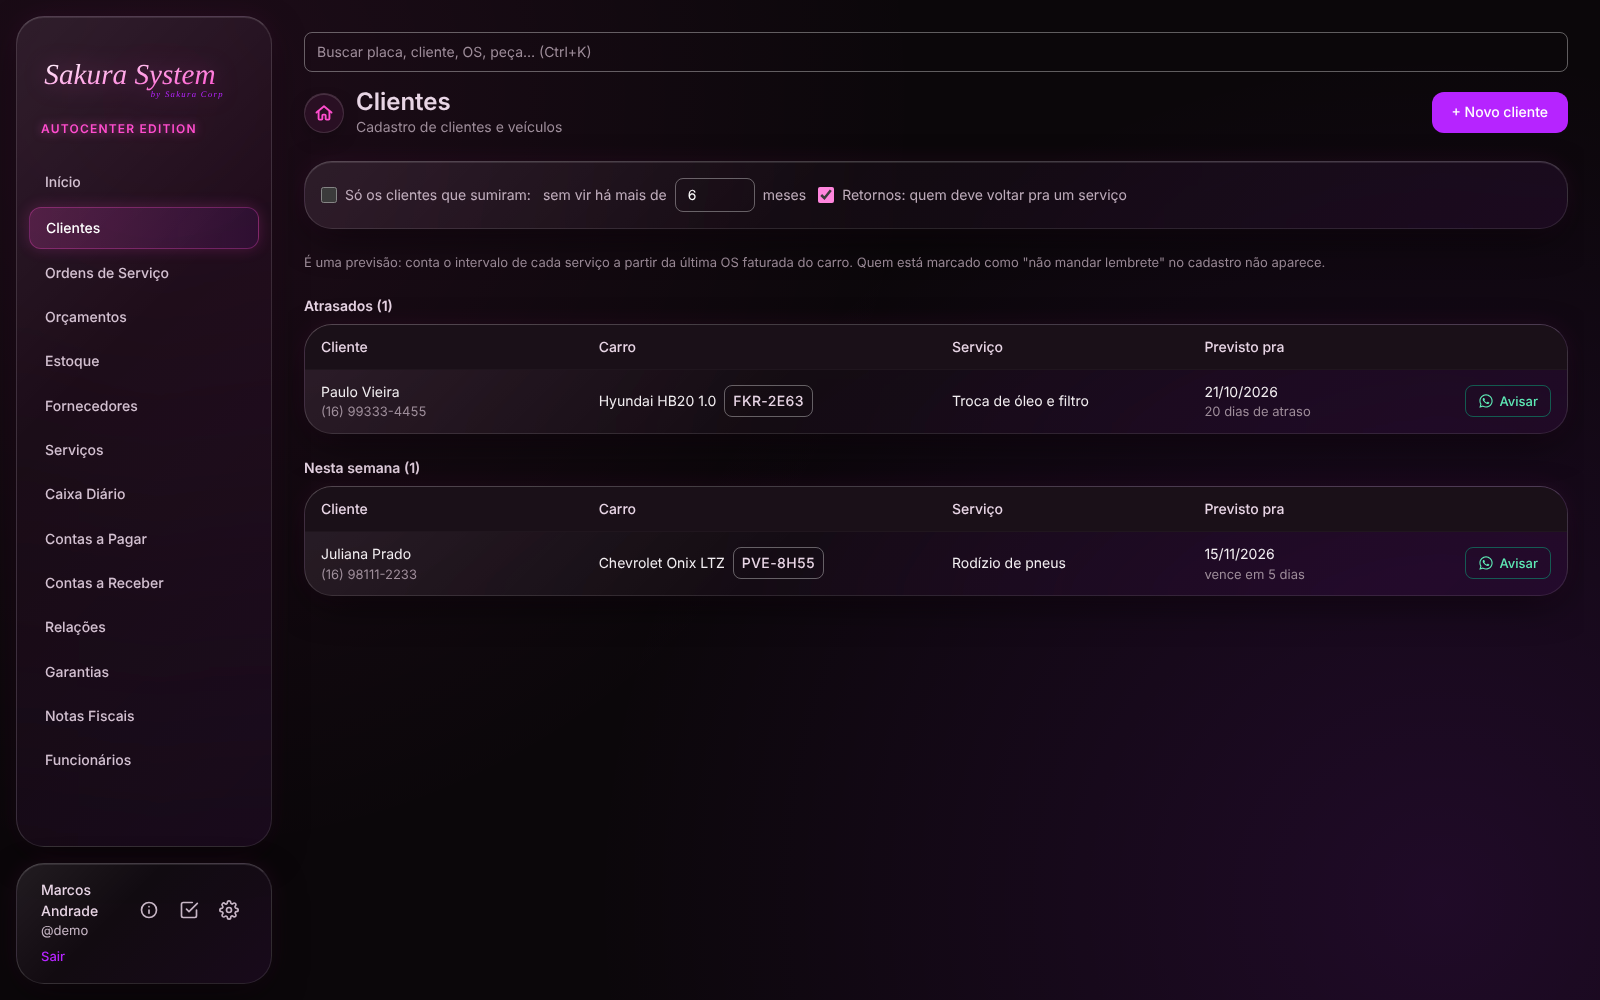
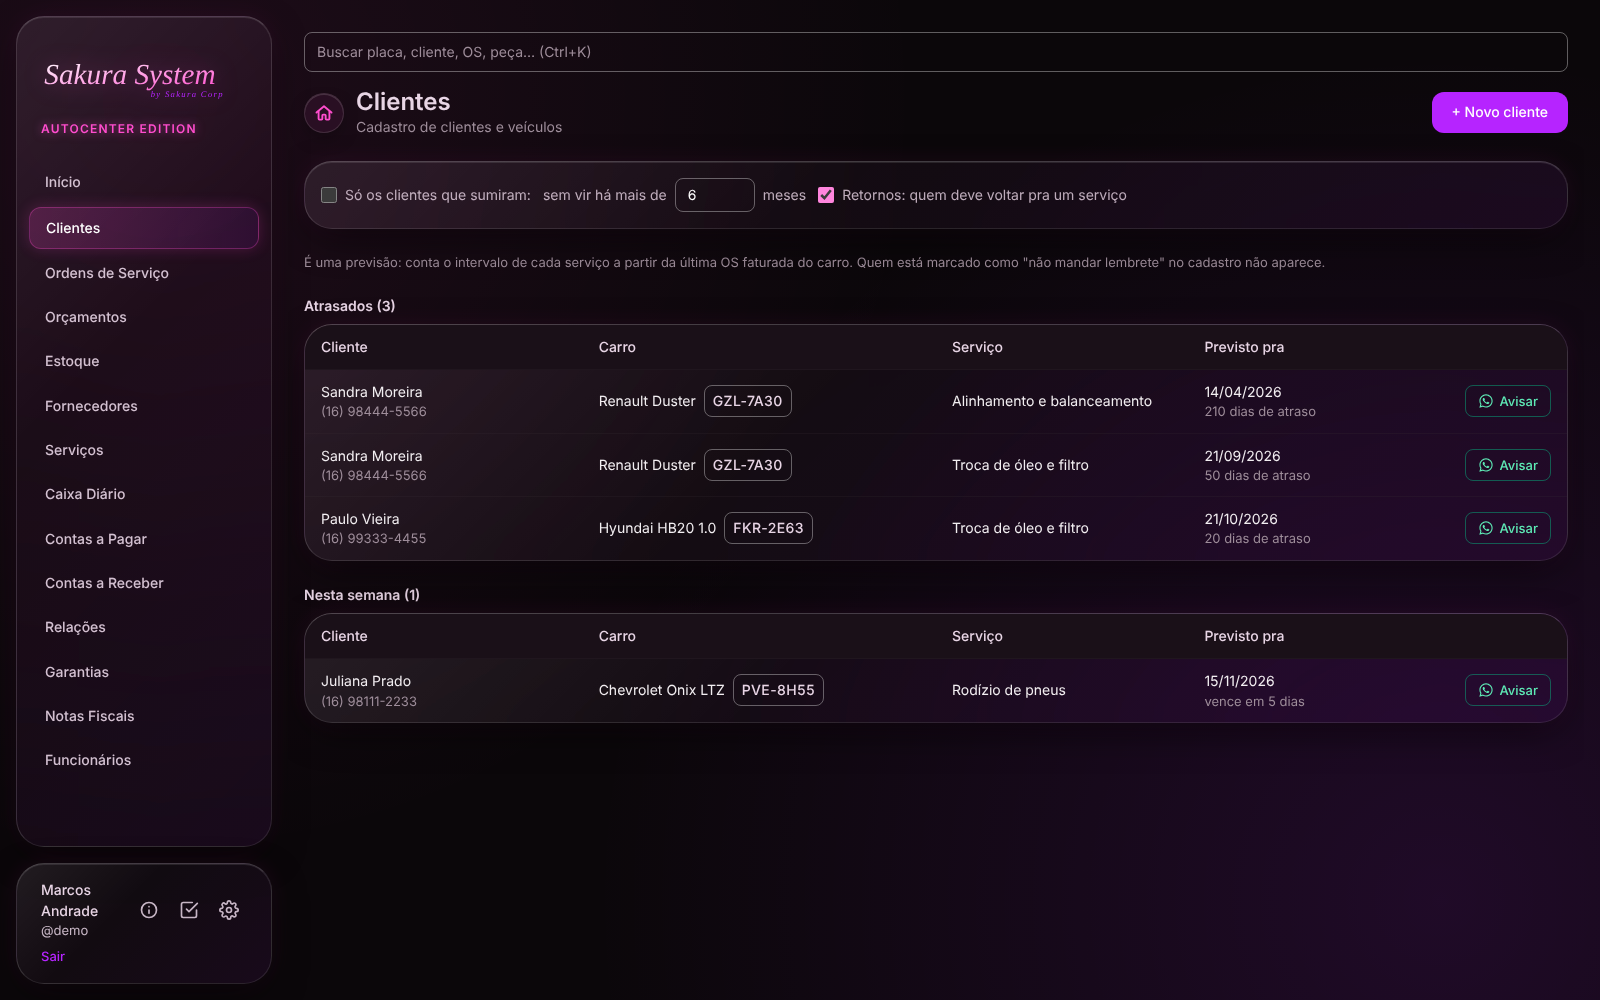
Retorno do cliente (#381): consertos da revisão (teto do intervalo, texto do WhatsApp sem placa, atraso na ficha, Sandra de volta na cena dos sumidos) e o relatório
Claude-Session: https://claude.ai/code/session_012NmbbHdZGP1HD1Nm1vCbYA

diff --git a/src/schemas/servico.ts b/src/schemas/servico.ts
@@ -2,13 +2,23 @@ import { z } from "zod";
 import type { NovoServico, Servico } from "@/types/servico";
 
 // Intervalo de retorno (FN-06, #381): inteiro maior que zero, ou vazio (o
-// serviço não gera lembrete). Texto no formulário, número só na borda.
-const intervaloOpcional = z
-  .string()
-  .trim()
-  .refine((v) => v === "" || (/^\d+$/.test(v) && Number(v) > 0), {
-    message: "Use um número inteiro maior que zero, ou deixe vazio.",
-  });
+// serviço não gera lembrete). Texto no formulário, número só na borda. O teto
+// é o mesmo da trava `ck_servicos_intervalo` (0083): sem ele, um número
+// gigante passava aqui e virava erro técnico no banco, ou uma data inválida
+// na conta dos retornos.
+export const INTERVALO_MAXIMO_DIAS = 3650;
+export const INTERVALO_MAXIMO_KM = 1_000_000;
+
+const intervaloOpcional = (maximo: number, unidade: string) =>
+  z
+    .string()
+    .trim()
+    .refine((v) => v === "" || (/^\d+$/.test(v) && Number(v) > 0), {
+      message: "Use um número inteiro maior que zero, ou deixe vazio.",
+    })
+    .refine((v) => v === "" || Number(v) <= maximo, {
+      message: `No máximo ${maximo.toLocaleString("pt-BR")} ${unidade}.`,
+    });
 
 export const servicoFormSchema = z.object({
   codigo_interno: z.string(),
@@ -16,8 +26,8 @@ export const servicoFormSchema = z.object({
   preco_padrao: z.string(),
   custo: z.string(),
   categoria_id: z.string(),
-  intervalo_dias: intervaloOpcional,
-  intervalo_km: intervaloOpcional,
+  intervalo_dias: intervaloOpcional(INTERVALO_MAXIMO_DIAS, "dias (10 anos)"),
+  intervalo_km: intervaloOpcional(INTERVALO_MAXIMO_KM, "km"),
 });
 
 export type ServicoFormValues = z.infer<typeof servicoFormSchema>;

diff --git a/src/schemas/retornos.test.ts b/src/schemas/retornos.test.ts
@@ -2,6 +2,7 @@ import { describe, expect, it } from "vitest";
 import {
   DIAS_DE_ANTECEDENCIA,
   listaDeRetornos,
+  partesDoVeiculoNaMensagem,
   proximoRetornoDoVeiculo,
   retornosPrevistos,
   somarDias,
@@ -477,5 +478,30 @@ describe("proximoRetornoDoVeiculo", () => {
 
   it("carro sem retorno: nada", () => {
     expect(proximoRetornoDoVeiculo([previsto("2026-12-01")], "v9")).toBeNull();
+  });
+});
+
+describe("partesDoVeiculoNaMensagem", () => {
+  // O modelo diz "no {veiculo} ({placa})": sem placa, ou sem marca e modelo,
+  // a mensagem não pode sair "no Fiat Uno ()" nem "no ABC1D23 (ABC1D23)".
+  it("com marca, modelo e placa: os dois", () => {
+    expect(partesDoVeiculoNaMensagem({ veiculo: "Fiat Uno", placa: "ABC1D23" })).toEqual({
+      veiculo: "Fiat Uno",
+      placa: "ABC1D23",
+    });
+  });
+
+  it("sem placa: diz que está sem placa, nunca parênteses vazios", () => {
+    expect(partesDoVeiculoNaMensagem({ veiculo: "Fiat Uno", placa: "" })).toEqual({
+      veiculo: "Fiat Uno",
+      placa: "sem placa",
+    });
+  });
+
+  it("sem marca e modelo (o veículo é a própria placa): 'carro' no lugar do nome", () => {
+    expect(partesDoVeiculoNaMensagem({ veiculo: "ABC1D23", placa: "ABC1D23" })).toEqual({
+      veiculo: "carro",
+      placa: "ABC1D23",
+    });
   });
 });

diff --git a/src/schemas/retornos.ts b/src/schemas/retornos.ts
@@ -89,6 +89,22 @@ function descreverVeiculo(veiculo: NonNullable<OrdemParaRetorno["veiculo"]>): st
 }
 
 /**
+ * O carro como entra na mensagem de WhatsApp ("no {veiculo} ({placa})").
+ * A placa pode estar vazia no cadastro, e o "veiculo" do retorno é a própria
+ * placa quando não há marca nem modelo: sem este ajuste a mensagem sairia
+ * "no Fiat Uno ()" ou "no ABC1D23 (ABC1D23)".
+ */
+export function partesDoVeiculoNaMensagem(retorno: Pick<RetornoPrevisto, "veiculo" | "placa">): {
+  veiculo: string;
+  placa: string;
+} {
+  const placa = retorno.placa.trim();
+  if (!placa) return { veiculo: retorno.veiculo, placa: "sem placa" };
+  if (retorno.veiculo.trim() === placa) return { veiculo: "carro", placa };
+  return { veiculo: retorno.veiculo, placa };
+}
+
+/**
  * Todos os retornos previstos, um por carro e por serviço com intervalo, sem
  * janela e sem olhar o cadastro do cliente (a ficha do veículo usa assim; a
  * lista da semana passa por `listaDeRetornos`).

diff --git a/src/types/servico.ts b/src/types/servico.ts
@@ -16,8 +16,10 @@ export interface Servico {
   criado_em: string;
 }
 
-// Os intervalos são opcionais na gravação: o formulário que ainda não tem os
-// campos não manda a coluna, e assim nem apaga o que já estava lá nem quebra
-// num banco que ainda não recebeu a migration 0083.
+// Os intervalos são opcionais no tipo de gravação pra quem grava serviço por
+// outro caminho (sem o formulário) não precisar conhecê-los nem apagá-los. O
+// formulário de Serviço manda os dois SEMPRE: num banco que ainda não recebeu
+// a migration 0083, salvar serviço falha com o aviso de banco desatualizado.
+// Por isso a 0083 sobe ANTES da versão do programa (regra de sempre).
 export type NovoServico = Omit<Servico, "id" | "criado_em" | "intervalo_dias" | "intervalo_km"> &
   Partial<Pick<Servico, "intervalo_dias" | "intervalo_km">>;

diff --git a/src/pages/veiculos/FichaVeiculoPage.test.tsx b/src/pages/veiculos/FichaVeiculoPage.test.tsx
@@ -283,6 +283,16 @@ describe("FichaVeiculoPage — próximo retorno previsto (#381)", () => {
     expect(screen.getByText(/É uma previsão/)).toBeInTheDocument();
   });
 
+  it("retorno que já passou da data diz que está atrasado, e há quantos dias", async () => {
+    // Faturada há 10 dias, a cada 3 dias: venceu há 7.
+    listarServicosComIntervalo.mockResolvedValue([{ ...oleo, intervalo_dias: 3 }]);
+    buscarFichaDoVeiculo.mockResolvedValue(ficha([ordemComOleo]));
+    montar();
+
+    await screen.findByRole("heading", { name: "Próximo retorno previsto" });
+    expect(screen.getByText(/Troca de óleo em .* atrasado há 7 dias$/)).toBeInTheDocument();
+  });
+
   it("sem serviço com intervalo, não mostra nada", async () => {
     buscarFichaDoVeiculo.mockResolvedValue(ficha([ordemComOleo]));
     montar();

diff --git a/src/schemas/servico.test.ts b/src/schemas/servico.test.ts
@@ -29,6 +29,13 @@ describe("intervalo de retorno no formulário de serviço (#381)", () => {
     expect(validar({ intervalo_km: valor }).success).toBe(false);
   });
 
+  it("tem teto, o mesmo da trava do banco: 3.650 dias e 1.000.000 km", () => {
+    expect(validar({ intervalo_dias: "3650", intervalo_km: "1000000" }).success).toBe(true);
+    expect(validar({ intervalo_dias: "3651" }).success).toBe(false);
+    expect(validar({ intervalo_km: "1000001" }).success).toBe(false);
+    expect(validar({ intervalo_dias: "99999999999" }).success).toBe(false);
+  });
+
   it("o formulário nasce com o intervalo do serviço existente", () => {
     const servico = { id: "s", descricao: "Óleo", intervalo_dias: 180, intervalo_km: null } as Servico;
     const valores = paraValoresFormulario(servico);

diff --git a/src/types/cliente.ts b/src/types/cliente.ts
@@ -69,9 +69,10 @@ export interface Cliente {
   veiculos?: Veiculo[];
 }
 
-// `nao_avisar` é opcional na gravação pelo mesmo motivo dos intervalos do
-// serviço: formulário sem o campo não manda a coluna (nem apaga, nem quebra
-// num banco sem a migration 0083).
+// `nao_avisar` é opcional no tipo de gravação pelo mesmo motivo dos intervalos
+// do serviço. O formulário de cliente (e o cadastro rápido na OS e no balcão)
+// manda SEMPRE: num banco sem a migration 0083, salvar cliente falha com o
+// aviso de banco desatualizado. Por isso a 0083 sobe ANTES da versão.
 export type NovoCliente = Omit<Cliente, "id" | "criado_em" | "veiculos" | "nao_avisar"> &
   Partial<Pick<Cliente, "nao_avisar">>;
 export type NovoVeiculo = Omit<Veiculo, "id" | "cliente_id" | "criado_em">;

diff --git a/src/lib/errors.ts b/src/lib/errors.ts
@@ -48,7 +48,7 @@ export const MENSAGEM_DA_TRAVA: Record<string, string> = {
   ck_configuracoes_avaliacao_link_https:
     "O link de avaliação precisa começar com https:// e não pode ter espaço.",
   // Migration 0083 (#381): o intervalo do retorno do cliente, no cadastro do serviço.
-  ck_servicos_intervalo: "O intervalo do serviço precisa ser maior que zero (ou ficar vazio).",
+  ck_servicos_intervalo: "O intervalo do serviço precisa ser maior que zero e no máximo 3.650 dias ou 1.000.000 km (ou ficar vazio).",
   ck_clientes_cnpj_juridica:
     "O CNPJ está incompleto — ele tem 14 caracteres. Complete ou deixe o campo em branco.",
   ck_fechamentos_caixa_valores: "O valor contado e o troco não podem ser negativos.",

diff --git a/src/pages/veiculos/FichaVeiculoPage.tsx b/src/pages/veiculos/FichaVeiculoPage.tsx
@@ -267,6 +267,8 @@ export function FichaVeiculoPage() {
           <p className="text-corpo text-sakura-purple-dark/85">
             {proximoRetorno.servico} em {diaBrasileiro(proximoRetorno.prevista)}
             {proximoRetorno.estimadoPeloKm && " (estimado pelo KM)"}
+            {proximoRetorno.diasDeAtraso > 0 &&
+              ` — atrasado há ${proximoRetorno.diasDeAtraso} ${proximoRetorno.diasDeAtraso === 1 ? "dia" : "dias"}`}
           </p>
           <p className="mt-1 text-rotulo text-sakura-muted">
             É uma previsão: conta o intervalo do serviço a partir da última vez que ele foi feito neste

diff --git a/src/pages/clientes/RetornosLista.tsx b/src/pages/clientes/RetornosLista.tsx
@@ -13,6 +13,7 @@ import {
 import { listarOrdensParaRetornos, listarServicosComIntervalo } from "@/lib/retornos";
 import {
   listaDeRetornos,
+  partesDoVeiculoNaMensagem,
   retornosPrevistos,
   type OrdemParaRetorno,
   type RetornoDoCliente,
@@ -105,8 +106,7 @@ export function RetornosLista({ clientes }: { clientes: Cliente[] }) {
       cliente: cliente.nome,
       loja: lojaAtual?.nome,
       servico: retorno.servico,
-      veiculo: retorno.veiculo,
-      placa: retorno.placa,
+      ...partesDoVeiculoNaMensagem(retorno),
     });
   }
 

diff --git a/docs/relatorios/2026-11-10-tarefa-381-backend.md b/docs/relatorios/2026-11-10-tarefa-381-backend.md
@@ -1,0 +1,76 @@
+# Relatório: tarefa #381, chefe backend
+
+- **Tarefa**: #381, lembrete de revisão e retorno do cliente (FN-06)
+- **Chefe**: backend
+- **Data**: 2026-11-10
+- **PR**: o desta branch (`claude/vigilant-goldberg-zufx65`)
+- **Jeito**: com ajudantes
+
+## O que cada agente fez
+- `ajudante-forte` (migration): escreveu a `0083_retorno_do_cliente.sql`: os campos `servicos.intervalo_dias` e `intervalo_km`, a trava `ck_servicos_intervalo`, o campo `clientes.nao_avisar` e o `servico_id` nos itens da janela `ordens_servico_clientes`. Escreveu também o `testar-retorno-do-cliente.sql`, subiu a versão, pôs a frase em `errors.ts` e gerou a instalação de novo. A D7 do `testar-os-permissao.sql` ganhou o `servico_id` na lista de chaves.
+- `ajudante-forte` (conta): `src/schemas/retornos.ts` com 37 testes escritos antes do código, `src/lib/retornos.ts` com teste e os tipos novos.
+- `ajudante-medio` (telas): os campos de intervalo no Serviço, a caixinha "não mandar lembrete" no Cliente, o "não avisar" também no cliente sumido, o modelo `retorno` do WhatsApp, a lista Retornos (`RetornosLista.tsx`), o próximo retorno na ficha do veículo, a cena nova nas ferramentas de tela e as fotos.
+- `ajudante-forte` (revisão final): fez o `/code-review` high do diff e achou 7 pontos (abaixo).
+- A mãe (eu): planejei e renumerei a migration de 0084 pra 0083 (motivo em "O que depende de alguém"). Consertei 5 dos 7 pontos da revisão: o teto do intervalo no formulário e no banco, o texto do WhatsApp com carro sem placa, "atrasado há N dias" na ficha, a Sandra de volta na cena dos sumidos e os comentários errados sobre banco antigo.
+
+## Modelos usados
+- Planejar: forte (sessão mãe), esforço médio
+- Migration: forte, esforço alto
+- Conta dos retornos: forte, esforço alto
+- Telas: médio (agente `ajudante-medio`, esforço padrão)
+- Revisão final: forte, esforço alto
+- Nenhuma troca por falha.
+
+## Sessões filhas
+- nenhuma
+
+## Gasto
+- **Uso da sessão mãe**: não medido (não li o arquivo da conversa).
+- **Ajudantes**: 4, pelo aviso de término. Migration: forte, alto, ~133 mil tokens. Conta: forte, alto, ~151 mil. Telas: médio, ~233 mil. Revisão: forte, alto, ~157 mil.
+- **Sessões filhas**: nenhuma
+- **`/goal`**: mostrei o texto na primeira mensagem; não sei se foi ligado (a coordenadora confere).
+
+## O que testei e VI reprovar
+- **Conta** (`retornos.test.ts`):
+  - Tirei o filtro do "não avisar": reprovou "cliente que pediu pra não ser avisado some da lista".
+  - Também reprovaram, cada um com a sua quebra: tirar o Consumidor, o empate dias × km, o desempate pela placa, a última OS contada pela abertura e não pelo faturamento, o dia cortado da string em vez de `diaLocal`, ficar com a OS mais antiga, e tirar o filtro de veículo e de `servico_id`.
+- **Lib**: tirar o `.neq` do Consumidor e o filtro de serviço inativo reprovou o teste da lib.
+- **Migration** (`testar-retorno-do-cliente.sql`):
+  - Tirar o `servico_id` da janela reprovou a checagem 9.
+  - Aceitar intervalo 0 reprovou a 7, e o mesmo com a trava do km.
+  - "Não avisar" nascendo verdadeiro reprovou a 0.
+  - Orçamento entrando na janela reprovou a 11.
+  - Tirar o teto de 3.650 dias reprovou a 7b.
+- **Telas**:
+  - Tirar o "não avisar" de `clientesSumidos()` reprovou o teste novo.
+  - Trocar o modelo do WhatsApp e forçar "tem telefone" reprovou 2 testes da lista.
+  - Tirar o "atrasado há" da ficha reprovou o teste novo da ficha.
+  - Tirar o teto do formulário de Serviço reprovou o teste do teto.
+- **Texto do WhatsApp com carro sem placa**: os 3 testes de `partesDoVeiculoNaMensagem` reprovaram antes de a função existir.
+
+## O que passou sem eu ter visto reprovar
+- O teste da tela "cliente com 'não avisar' não aparece em Retornos". O filtro dele mora na conta, e esse eu vi reprovar.
+- O "estimado pelo KM" na lista não tem teste de tela próprio (está coberto na conta), e não há foto desse caso.
+
+## O que ficou de fora
+- **Limite de tempo pros "Atrasados"** (achado 2 da revisão): hoje aparece todo carro que fez o serviço e nunca voltou, mesmo de anos atrás. Precisa de decisão da Sofia (por exemplo, cortar em 2 vezes o intervalo ou em 12 meses).
+- **A lista busca as OS de novo** cada vez que a caixa "Retornos" é marcada (achado 7). É só velocidade, não erro.
+- **Retornos na Central do dia**: fica pra outra tarefa (decisão 4 da Sofia).
+
+## O que depende de alguém
+- **Sofia: aplicar a migration 0083** (`0083_retorno_do_cliente.sql`) no `ssace-teste` antes do teste no PC, e depois nas lojas pelo "Atualizar o banco". Ela **não** tem `versao-minima-do-programa`, então sobe **antes** da versão do programa. Com o programa novo num banco sem a 0083, salvar cliente ou serviço falha com o aviso de banco desatualizado.
+- **Número da migration**: o PR #985 (#457) também usa a 0083, e o teste do projeto não aceita buraco na numeração. **Quem for mesclado depois passa a ser 0084**: renomear o arquivo e trocar o número na migration, no `testar-*.sql`, no `VERSAO_ESQUEMA_ESPERADA`, nos comentários (`errors.ts`, `types/`, `lib/retornos.ts`, `testar-os-permissao.sql`), e rodar `npm run gerar-instalacao`.
+- **Conflito esperado** em `ClientesPage.tsx` com o #984 e o #985. A parte desta tarefa ficou separada em `RetornosLista.tsx`; na página só mudaram uma caixinha e um ramo do ternário.
+- **Gustavo, no PC**: os testes do "No PC de quem fez", depois do "aplicado" da Sofia.
+
+## Onde parou
+Terminei.
+
+## Como eu agi
+- **O que a skill me ajudou a fazer**: separar banco, conta e tela entre ajudantes com arquivos que não se cruzam, e pôr a revisão final num ajudante forte, que achou 7 pontos reais que os testes não pegavam.
+- **Onde eu errei ou tive que adivinhar**:
+  - Pus 0084 achando que um buraco na numeração era aceito; o teste `atualizar-bancos.test.ts` reprova buraco, e tive que renumerar.
+  - Usei um `git checkout -p` sem querer, que ficou parado esperando resposta; interrompi sem perder nada.
+  - A branch é a que a sessão recebeu, não `claude/tarefa-381-...`.
+- **O que faltou na skill**: dizer o que fazer quando duas tarefas abertas ao mesmo tempo precisam de migration (as duas pegam o mesmo número).
+- **Sugestão de ajuste (opcional)**: na skill `chefe-backend`, uma linha: "Antes de numerar a migration, confira os PRs abertos; se outro já usa o próximo número, use o mesmo e avise no PR que quem for mesclado depois renumera."
